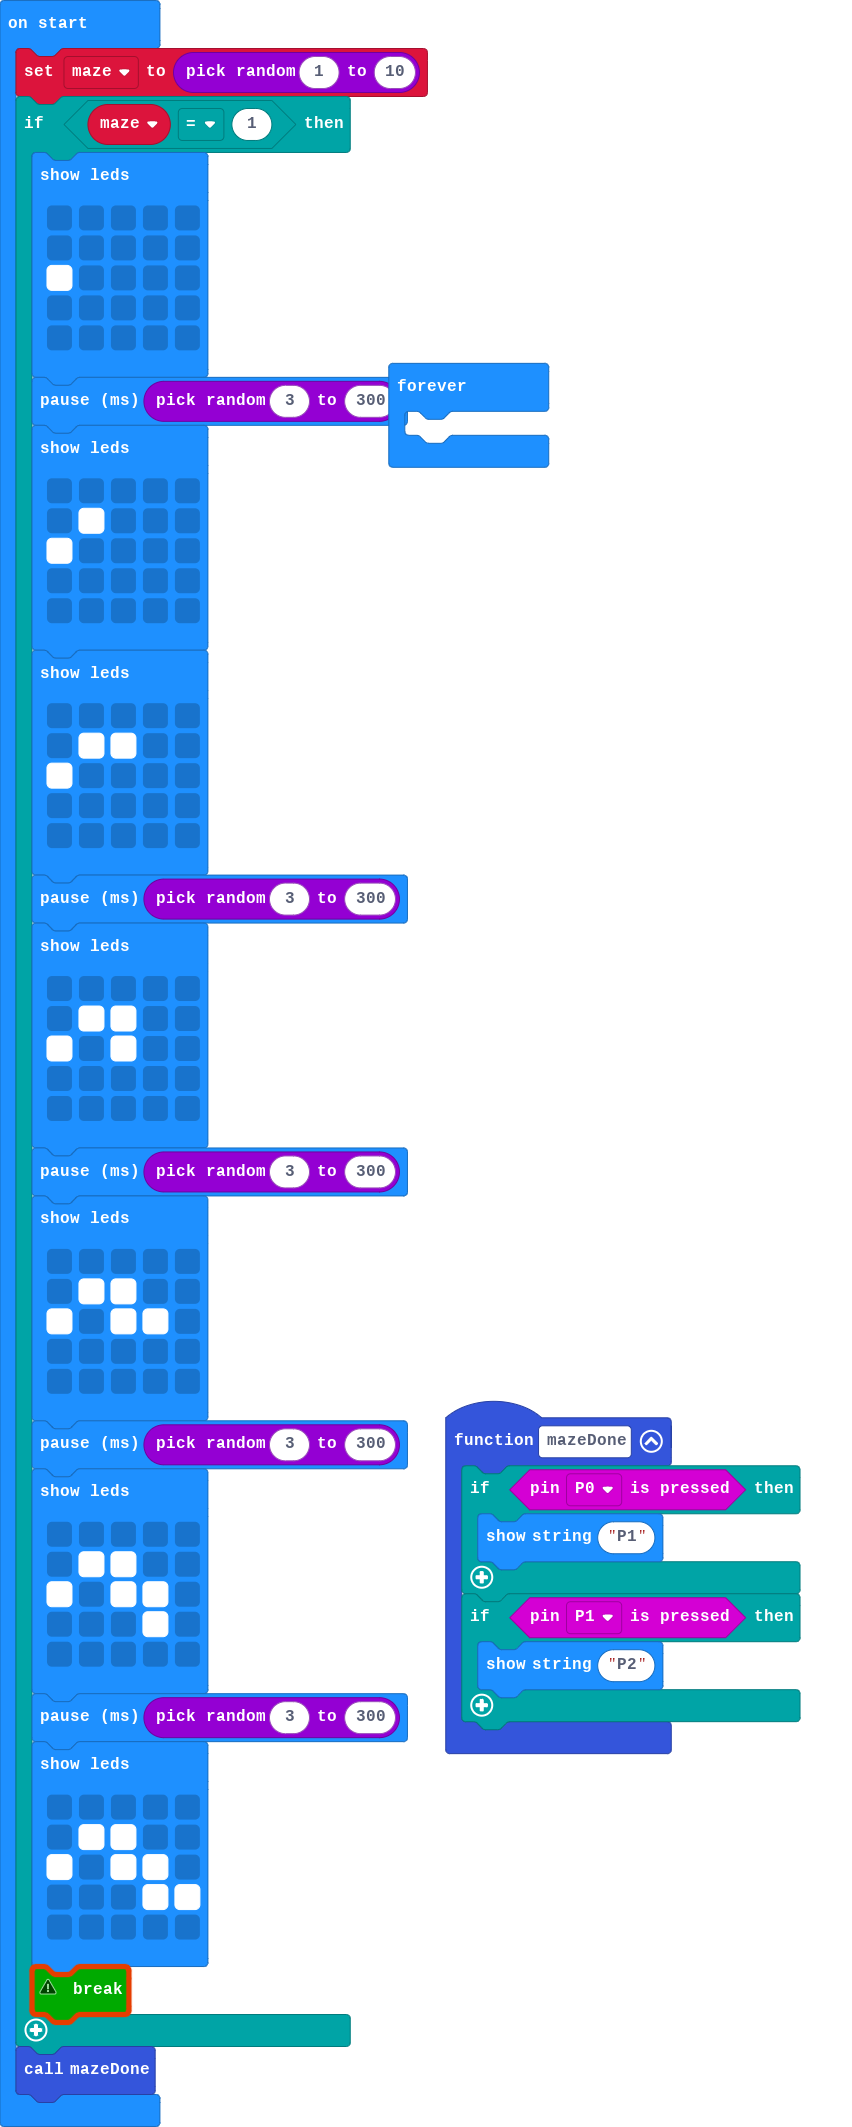
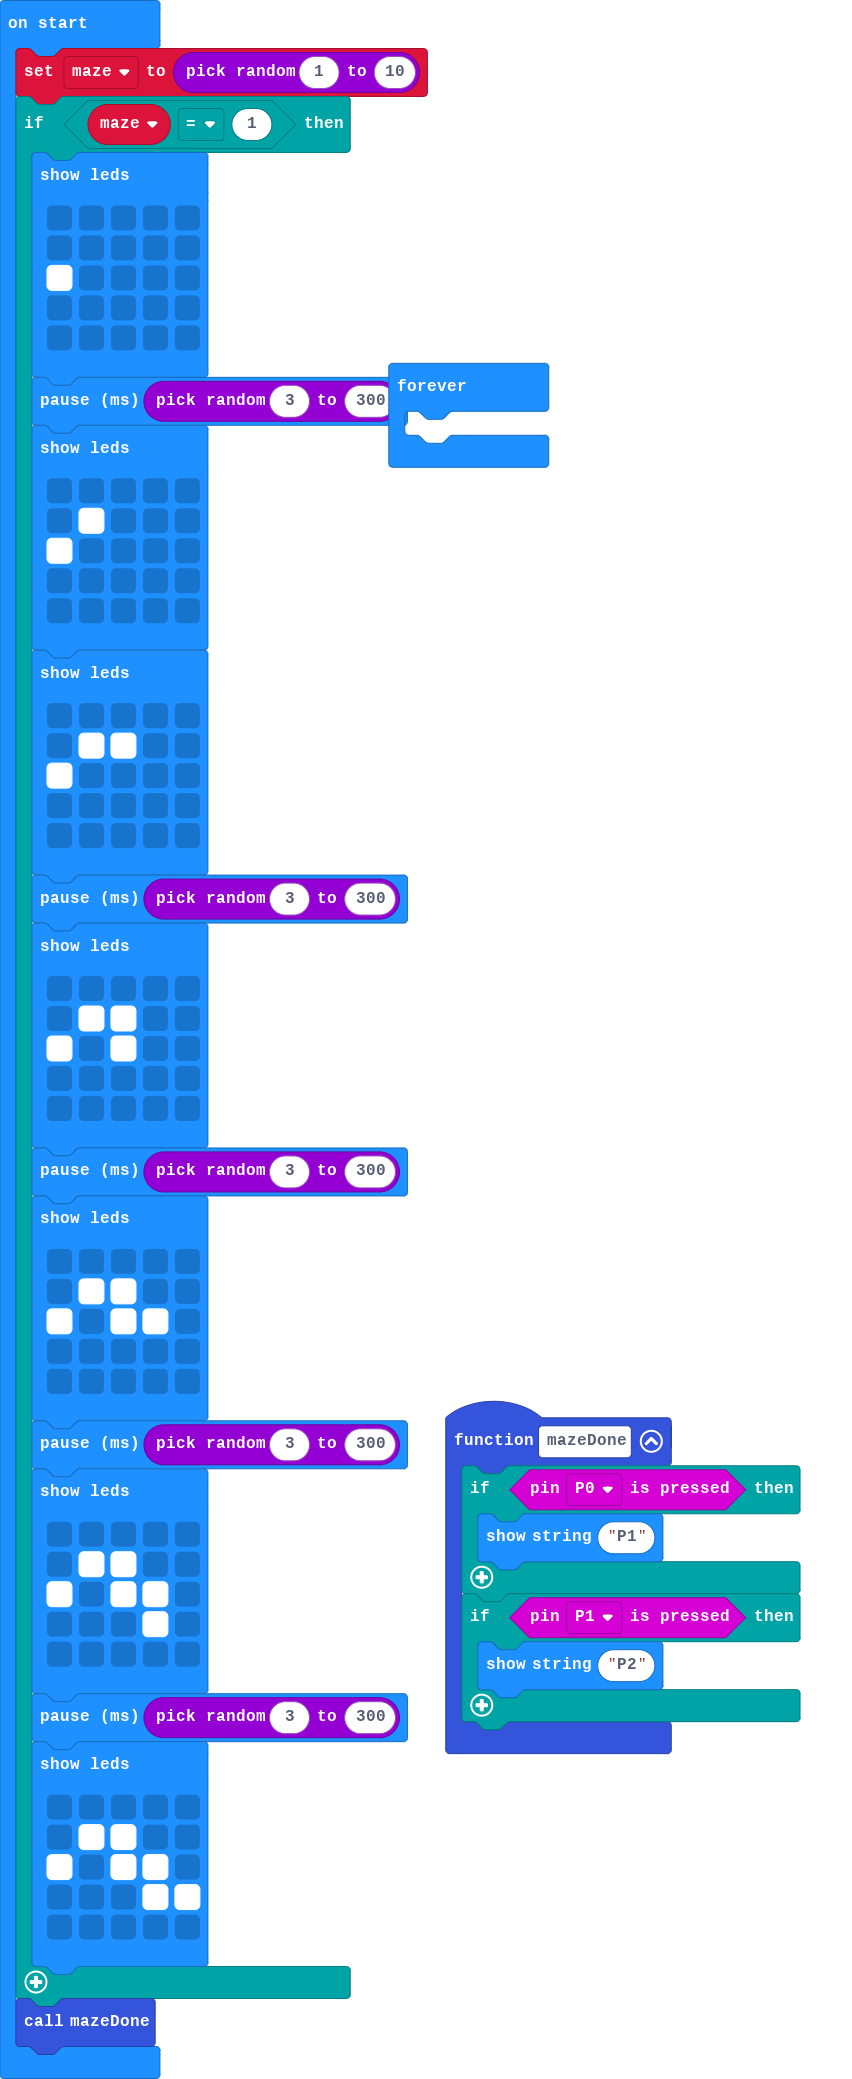
Update main.blocks, main.ts

Changed region(s): [[0.0305, 0.0, 0.6408, 0.9851], [0.5188, 0.6465, 0.946, 0.862]]

diff --git a/main.ts b/main.ts
@@ -1,15 +1,9 @@
 function mazeDone () {
-    while (true) {
-        if (input.pinIsPressed(TouchPin.P0)) {
-            music.playMelody("C C F E F G C5 C5 ", 220)
-            basic.showString("P1")
-            control.reset()
-        }
-        if (input.pinIsPressed(TouchPin.P1)) {
-            music.playMelody("C C F E F G C5 C5 ", 220)
-            basic.showString("P2")
-            control.reset()
-        }
+    if (input.pinIsPressed(TouchPin.P0)) {
+        basic.showString("P1")
+    }
+    if (input.pinIsPressed(TouchPin.P1)) {
+        basic.showString("P2")
     }
 }
 let maze = randint(1, 10)
@@ -70,3 +64,6 @@ if (maze == 1) {
         `)
 }
 mazeDone()
+basic.forever(function () {
+	
+})
